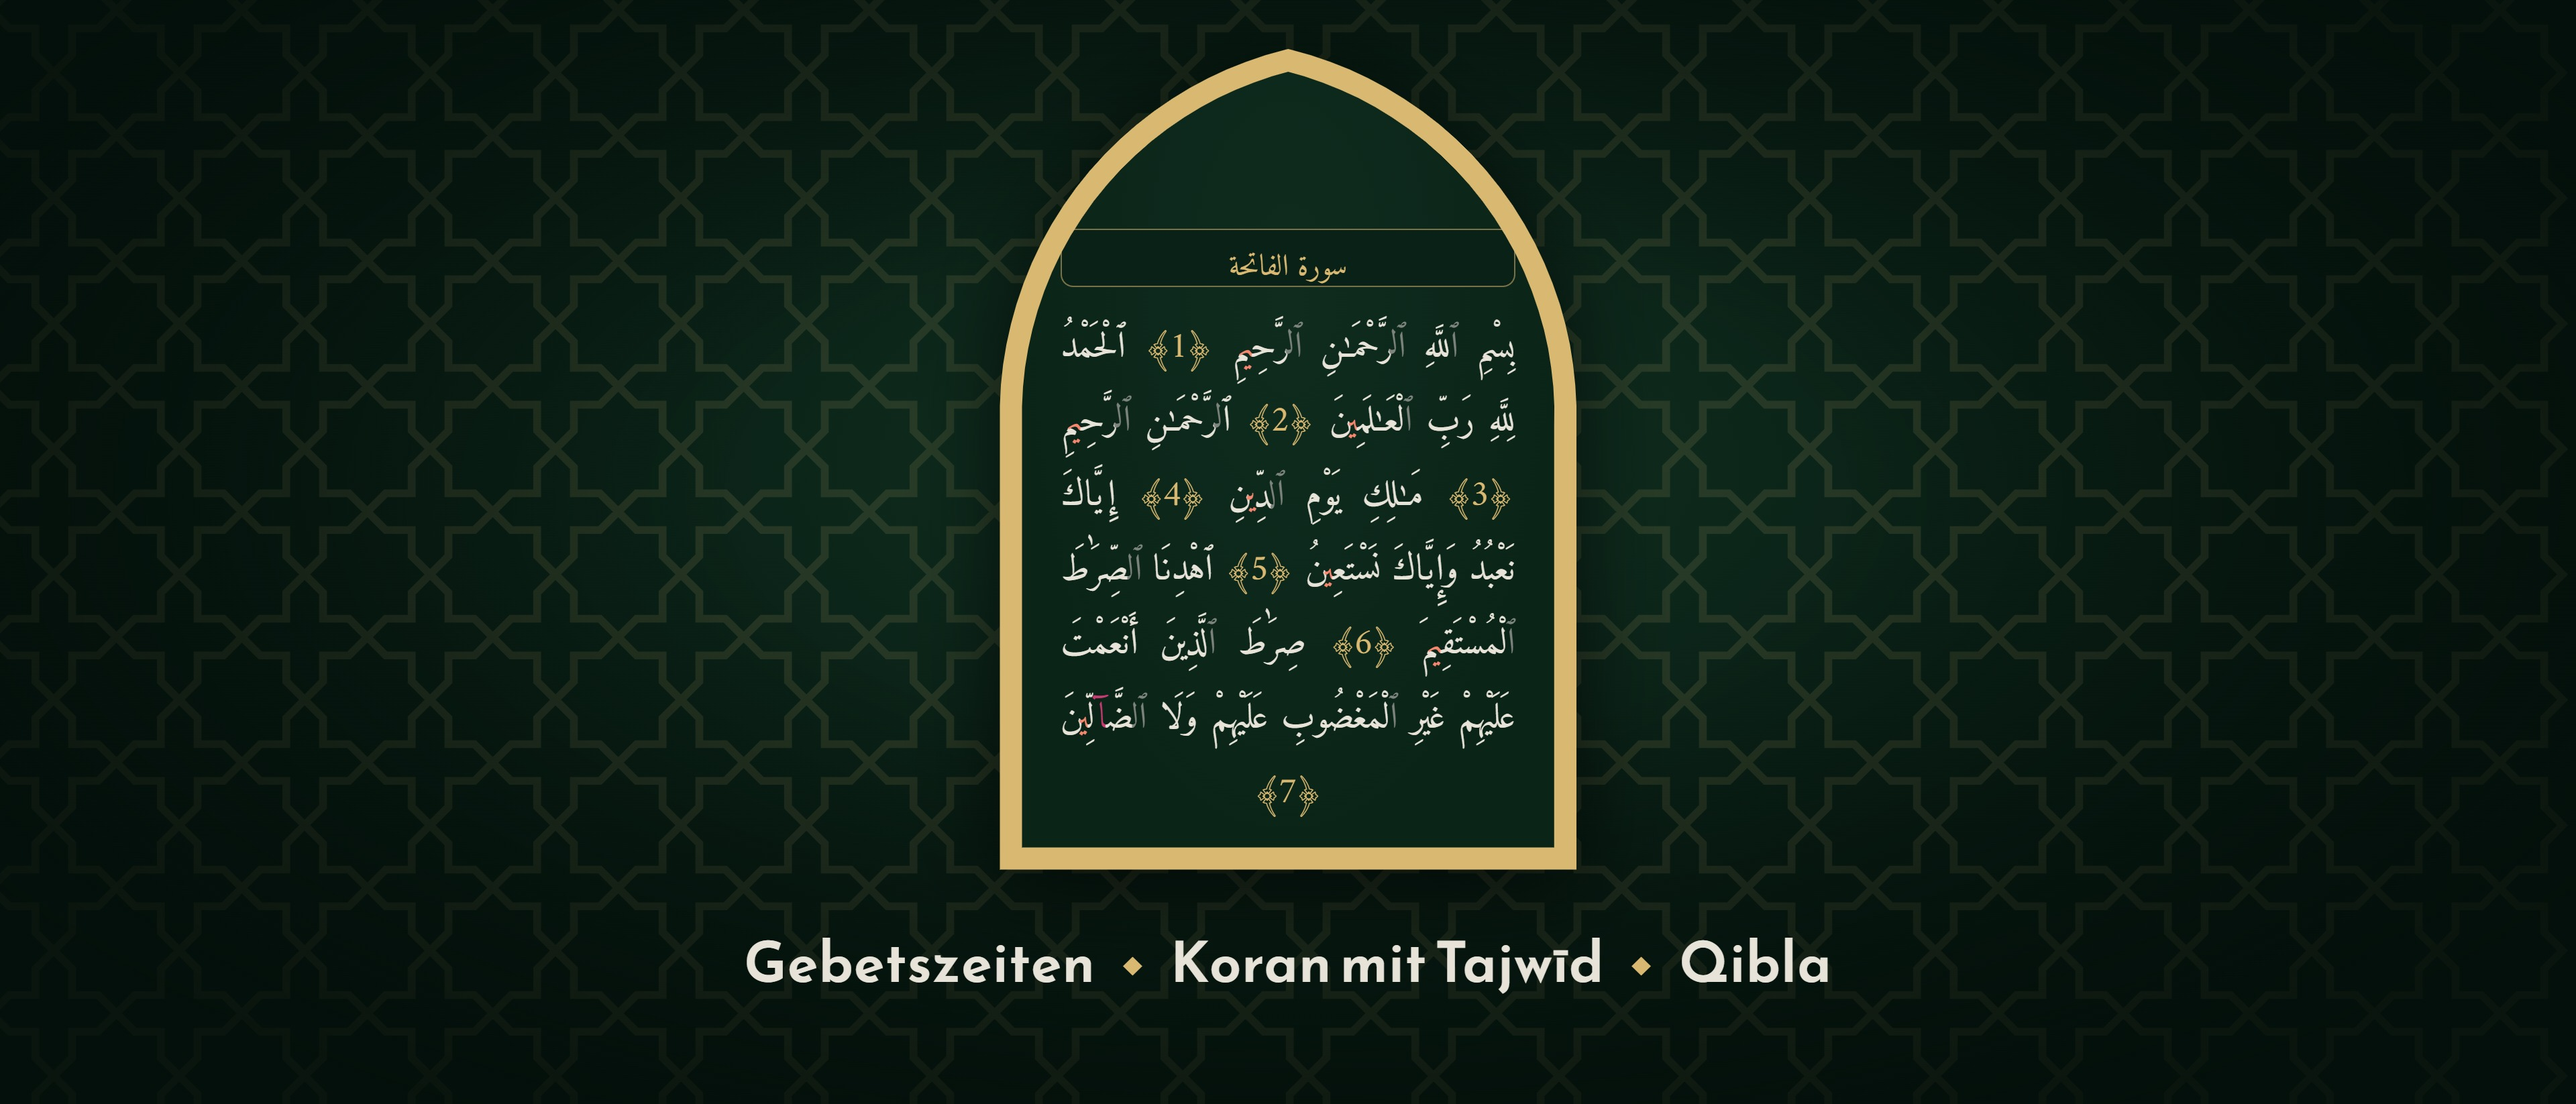
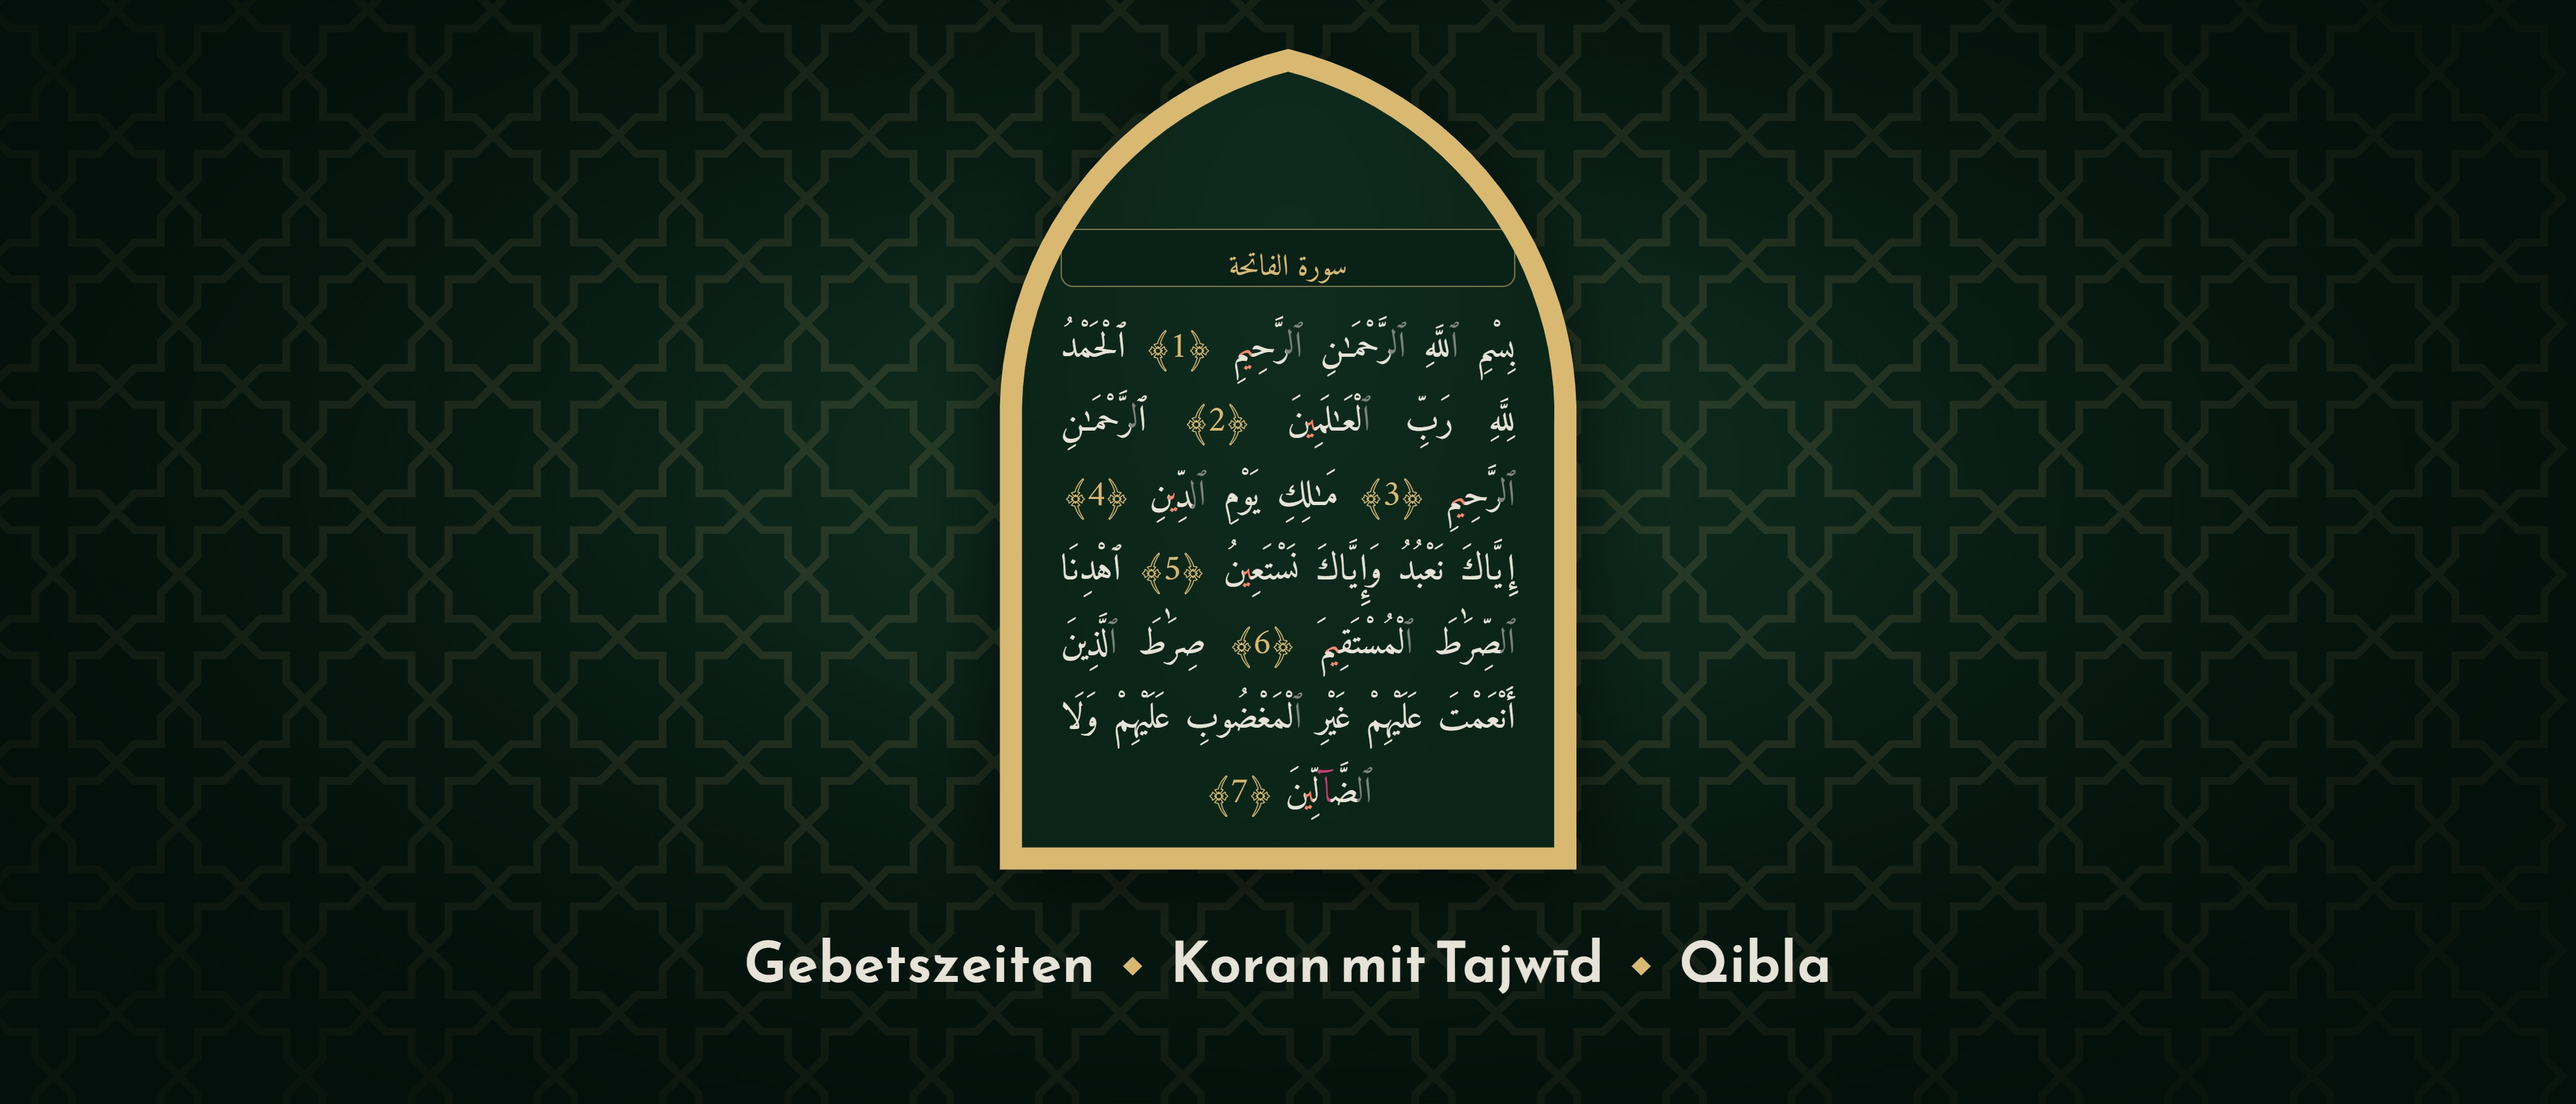
fix(mobile): ayah end markers stay with the ayah's last word
A plain space before the marker let a line break put it at the start of the next line, which a printed mushaf never does; it is a no-break space now. Store art regenerated with the fix. Capture script: Arabic shots land unprefixed in the editor, the page shot opens al-Mulk (p. 562).

Changed region(s): [[0.4062, 0.5577, 0.5938, 0.7436], [0.4062, 0.4338, 0.5938, 0.5267], [0.4062, 0.3718, 0.5625, 0.4028]]

diff --git a/mobile/src/lib/quran/mushaf-html.ts b/mobile/src/lib/quran/mushaf-html.ts
@@ -100,7 +100,9 @@ export function pageContentHtml(page: number, opts: MushafOptions): string {
     body +=
       `<span class="a${opts.marked.has(key) ? " m" : ""}" data-k="${key}">` +
       `${ayahText(i, raw, from, opts.tajweed)}</span>` +
-      `<span class="n"> <b>﴿${ayah}﴾</b> </span>`;
+      // A no-break space: the end marker stays with the āyah's last word,
+      // as in a printed mushaf, never opening the next line on its own.
+      `<span class="n">&nbsp;<b>﴿${ayah}﴾</b> </span>`;
   }
   closePara();
 

diff --git a/docs/shots/capture.py b/docs/shots/capture.py
@@ -30,11 +30,11 @@ cap("home")
 for r in ["qibla", "month", "dua", "mosques", "settings", "tasbih"]:
     sh("adb", "shell", "am", "start", "-W", "-a", "android.intent.action.VIEW", "-d", f"prayer://{r}", PKG); time.sleep(5)
     cap(r)
-# 1.1: the Quran tab, a mushaf page (Ya-Sin opens p. 440; Luqman p. 411 has
+# 1.1: the Quran tab, a mushaf page (al-Mulk opens p. 562; Luqman p. 411 has
 # more tajweed), and the guided tasbih after prayer.
 for name, link, wait in [
     ("quran", "prayer://quran", 5),
-    ("quran_page", "prayer://quran/36?ayah=1", 7),
+    ("quran_page", "prayer://quran/67?ayah=1", 7),
     ("quran_tajweed", "prayer://quran/31?ayah=6", 7),
     ("tasbih_after_prayer", "prayer://tasbih?mode=afterPrayer", 5),
 ]:
@@ -44,4 +44,5 @@ sh("adb", "shell", "am", "start", "-W", "-a", "android.intent.action.VIEW", "-d"
 cap("display_wall")
 for n in ["home", "qibla", "month", "dua", "mosques", "settings", "tasbih", "quran", "quran_page",
           "quran_tajweed", "tasbih_after_prayer", "display_wall"]:
-    scrub(n); shutil.copy(clean / f"{prefix}_{n}.png", pub / f"{prefix}_{n}.png"); print("ok", n)
+    # Arabic is the app's base language: its shots carry no prefix in the editor.
+    scrub(n); shutil.copy(clean / f"{prefix}_{n}.png", pub / (f"{n}.png" if prefix == "ar" else f"{prefix}_{n}.png")); print("ok", n)
